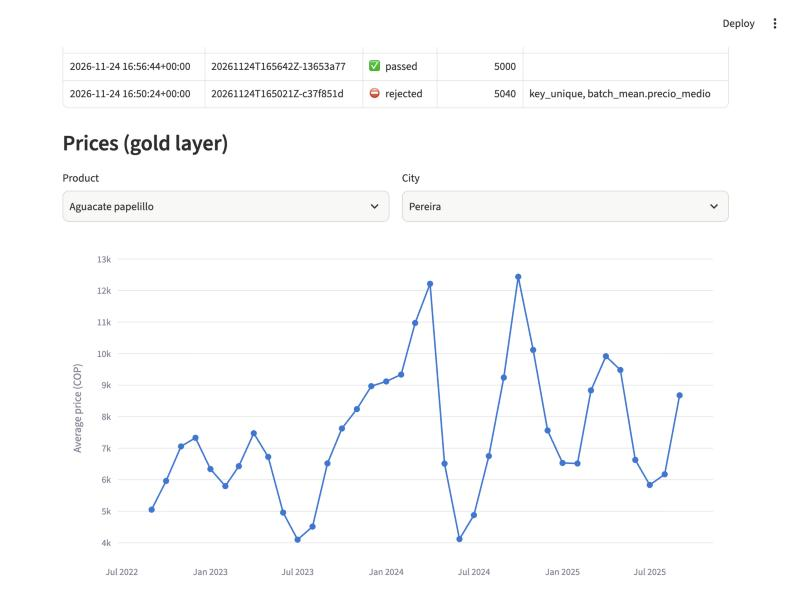
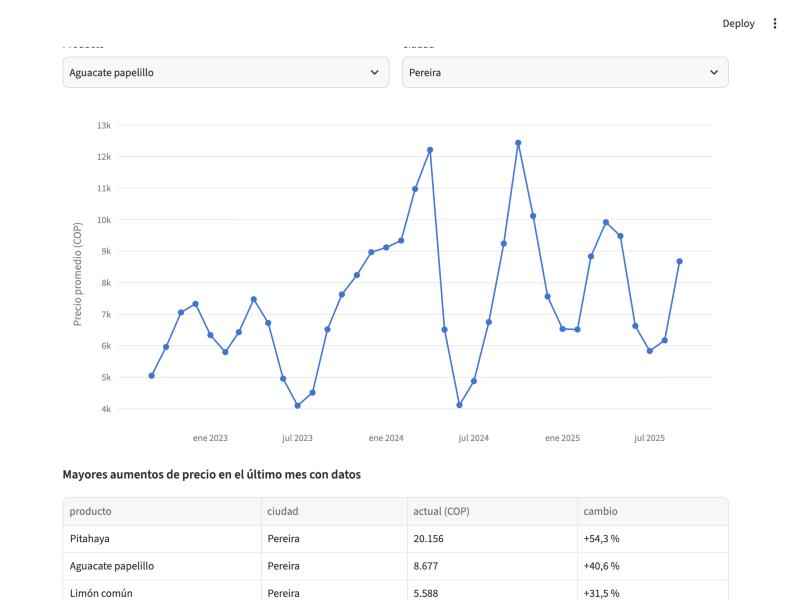
docs: update report, readme and captures for the spanish dashboard

diff --git a/docs/informe-escenario-3.md b/docs/informe-escenario-3.md
@@ -70,8 +70,9 @@ expectativas si no pasa pruebas de calidad.
 
 Con datos aprobados, el mayor aumento de precio real del último mes es el de la pitahaya
 (+54,3 %). Si un lote con ceros de más en el 5 % de las filas se saltara el control, aparecería
-la manzana roja importada con +2.305 %, una falsa alarma, y la pitahaya real desaparecería del
-ranking. Con el control de calidad, ese lote se rechaza y el *dashboard* nunca lo ve.
+el ranking se llenaría de aumentos falsos de miles de por ciento: el kiwi, con +4.992 %,
+encabezaría la lista, y la cifra real de la pitahaya quedaría tapada por una falsa de +3.921 %.
+Con el control de calidad, ese lote se rechaza y el *dashboard* nunca lo ve.
 
 # Conceptos de ingeniería de datos
 
@@ -184,7 +185,7 @@ Integración continua frente a DataOps, y su aplicación en el proyecto
 | Aspecto | Integración continua | DataOps | En este proyecto |
 |:--------|:-------------------------|:-------------------------|:------------------------|
 | Qué protege | La integración de cambios de código en una base compartida (Fowler, 2024). | El ciclo completo de la analítica: código, datos y el *pipeline* que los mueve (Munappy et al., 2020). | `pytest` protege el código; el control de calidad protege los datos. |
-| Qué se prueba | El código, con una compilación automática que incluye pruebas (Fowler, 2024). | El código ("Analytics is code") y también los datos que fluyen (DataKitchen, s. f.). | 119 pruebas de código y 22 expectativas sobre cada lote. |
+| Qué se prueba | El código, con una compilación automática que incluye pruebas (Fowler, 2024). | El código ("Analytics is code") y también los datos que fluyen (DataKitchen, s. f.). | 127 pruebas de código y 22 expectativas sobre cada lote. |
 | Cuándo se ejecutan las pruebas | Cuando alguien integra un cambio en la rama principal (Fowler, 2024). | Cuando cambia el código y cada vez que llegan datos nuevos. | `pytest` al cambiar el código; el control, en cada ejecución de `pipeline.run`. |
 | Qué significa una falla | Un error de integración o un defecto del cambio, que se corrige de inmediato (Fowler, 2024). | Un defecto en el código o en el dato, que se detecta y se vigila de forma continua (DataKitchen, s. f.). | Código de salida 1: el lote se rechaza y *silver* y *gold* conservan lo aprobado. |
 
@@ -392,7 +393,7 @@ Figura 5
 :::
 
 ::: {custom-style="Figura Titulo"}
-Con el 5 % de las filas con ceros de más, el control rechaza el lote; sin él aparecerían picos falsos de hasta 200 mil COP
+Con el 5 % de las filas con ceros de más, el control rechaza el lote; sin él aparecerían picos falsos de más de 200 mil COP
 :::
 
 ![](images/dashboard-whatif-chart.jpg)
@@ -407,8 +408,9 @@ Mayores aumentos de precio con y sin el control de calidad
 
 ![](images/dashboard-whatif-tables.jpg)
 
-*Nota.* Con datos aprobados lidera la pitahaya (+54,3 %). Sin el control aparece una falsa alarma
-de +2.305 % y la pitahaya desaparece del ranking.
+*Nota.* Con datos aprobados lidera la pitahaya (+54,3 %). Sin el control, el ranking lo encabeza
+el kiwi con un aumento falso de +4.992,1 %, y la pitahaya aparece con +3.921,5 %, una cifra
+también falsa.
 
 [PENDIENTE (TÚ, opcional): reemplazar las Figuras 3 a 6 por capturas tuyas, tomadas en tu
 navegador, para que la evidencia sea de tu propio entorno.]{.mark}
@@ -436,7 +438,7 @@ Resultado de seguir el README desde un clon limpio
 | Lote corrupto | Termina con código 1 y *silver* conserva sus 30 filas. |
 | Datos reales | `bronze=5000 silver=5000 gold=1299`. |
 | *Dashboard* | Responde en `http://localhost:8501`. |
-| Pruebas | 119 pasan. |
+| Pruebas | 119 pasaron (el número de pruebas del proyecto en el momento de esa validación; hoy son 127). |
 
 El README también se verificó en GitHub: los dos diagramas Mermaid y las tablas se dibujan bien.
 

diff --git a/docs/ai-log.md b/docs/ai-log.md
@@ -409,6 +409,40 @@ autor omite la revisión de un cambio, se anota que se omitió.
 - **Resultado final:** cambio solo de documentación; no cambió ningún comportamiento.
 - **Revisión (Gentle AI):** pendiente.
 
+### Dashboard en español (`feat/dashboard-es`)
+
+- **Prompt (mío, textual):** "Vuelve el dashboard en español por favor".
+- **Qué falló o faltó:** (1) En T5 dejé la interfaz en inglés, que es el idioma por defecto de los
+  artefactos, y al cerrar T5 pregunté si la querías en español; no hubo respuesta y quedó en
+  inglés. (2) **Las cifras que cité de T5 no eran reproducibles.** Al volver a abrir el dashboard
+  traducido, la falsa alarma había cambiado (de "Manzana roja importada +2.305,3 %" a "Coco
+  +2.396,7 %", y de 226 a 230 promedios cambiados). La causa: la simulación lee el último lote
+  desde Postgres sin `ORDER BY`, y la corrupción con semilla fija elige filas por posición, así
+  que el resultado dependía del orden físico en cada base de datos. Lo detecté al comparar mis
+  capturas nuevas con las anteriores. (3) Mi primer intento de cargar datos para la captura
+  falló sin avisar: en zsh, una variable sin comillas no se separa en palabras, así que el
+  programa recibió `"--source live"` como un único argumento. (4) El panel del navegador estaba
+  en modo oscuro y lo pasé a claro para que las capturas coincidieran con las anteriores.
+  (5) Con las cifras nuevas, el informe quedó desactualizado: decía que la pitahaya "desaparece"
+  del ranking, y ahora aparece con una cifra falsa.
+- **Cómo lo reformulé:** primero las pruebas en español (RED), incluida una que exige que cada
+  tipo de corrupción tenga su nombre en español; luego la traducción. Para la reproducibilidad,
+  una prueba que lee el mismo lote guardado en dos órdenes distintos y exige el mismo resultado
+  (falló primero), y después `ORDER BY` por todas las columnas fuente. Todo se verificó en un
+  proyecto de Docker aparte, con otros puertos y su propia base, sin tocar tu base ni tus
+  contenedores.
+- **Resultado final:** 127 pruebas pasan. El dashboard está en español: títulos, métricas,
+  tablas, gráficos, mensajes y los nombres de los tipos de corrupción (por ejemplo "Filas
+  duplicadas"); los números siguen la convención española (coma decimal y punto de miles:
+  `20.156`, `+54,3 %`) y los meses se rotulan en español (`ene 2023`, `jul 2023`). Con datos
+  reales (5000 filas), la simulación da el mismo resultado en dos lotes distintos: sin el control
+  encabeza el kiwi con +4.992,1 %, la pitahaya aparece con +3.921,5 % y 225 de 1.299 promedios
+  cambian. El informe y el README se actualizaron con esas cifras y con 127 pruebas, y se
+  reemplazaron las cuatro capturas del dashboard por otras de la versión en español. La
+  afirmación de T5 de que la pitahaya "desaparece" del ranking no se sostiene con la simulación
+  reproducible.
+- **Revisión (Gentle AI):** pendiente.
+
 ### T8 a T12
 
 Se completan al iniciar cada tarea, con el mismo formato que T2: prompt inicial, qué falló,

diff --git a/README.md b/README.md
@@ -181,7 +181,7 @@ docker compose up -d app
 ```
 
 Ábrelo en <http://localhost:8501>. Tiene tres secciones: historial del quality gate, precios por
-producto y ciudad (capa gold), y **"What would the dashboard show without the gate?"**, que
+producto y ciudad (capa gold), y **"¿Qué mostraría el dashboard sin el control?"**, que
 inyecta una corrupción al último lote aprobado y compara lo que el dashboard habría mostrado.
 
 ## Pruebas
@@ -190,7 +190,7 @@ inyecta una corrupción al último lote aprobado y compara lo que el dashboard h
 docker compose run --rm app pytest -q
 ```
 
-Esperado: `119 passed`. Las pruebas de integración usan su propia base `canasta_test`, creada
+Esperado: `127 passed`. Las pruebas de integración usan su propia base `canasta_test`, creada
 sola: **no tocan tus datos**.
 
 ## Variables de entorno (`.env`)
@@ -228,7 +228,7 @@ sql/init.sql         esquemas bronze, silver, gold y meta
 src/pipeline/        extract, bronze, silver, quality (gate), promote, gold, corruption, run
 src/dashboard/       app de Streamlit, consultas, gráficos y lógica "qué pasaría sin el gate"
 data/sample/         muestra determinista de 30 filas
-tests/               119 pruebas (unitarias e integración)
+tests/               127 pruebas (unitarias e integración)
 docs/                registro de uso de IA, informe y diagramas
 ```
 
